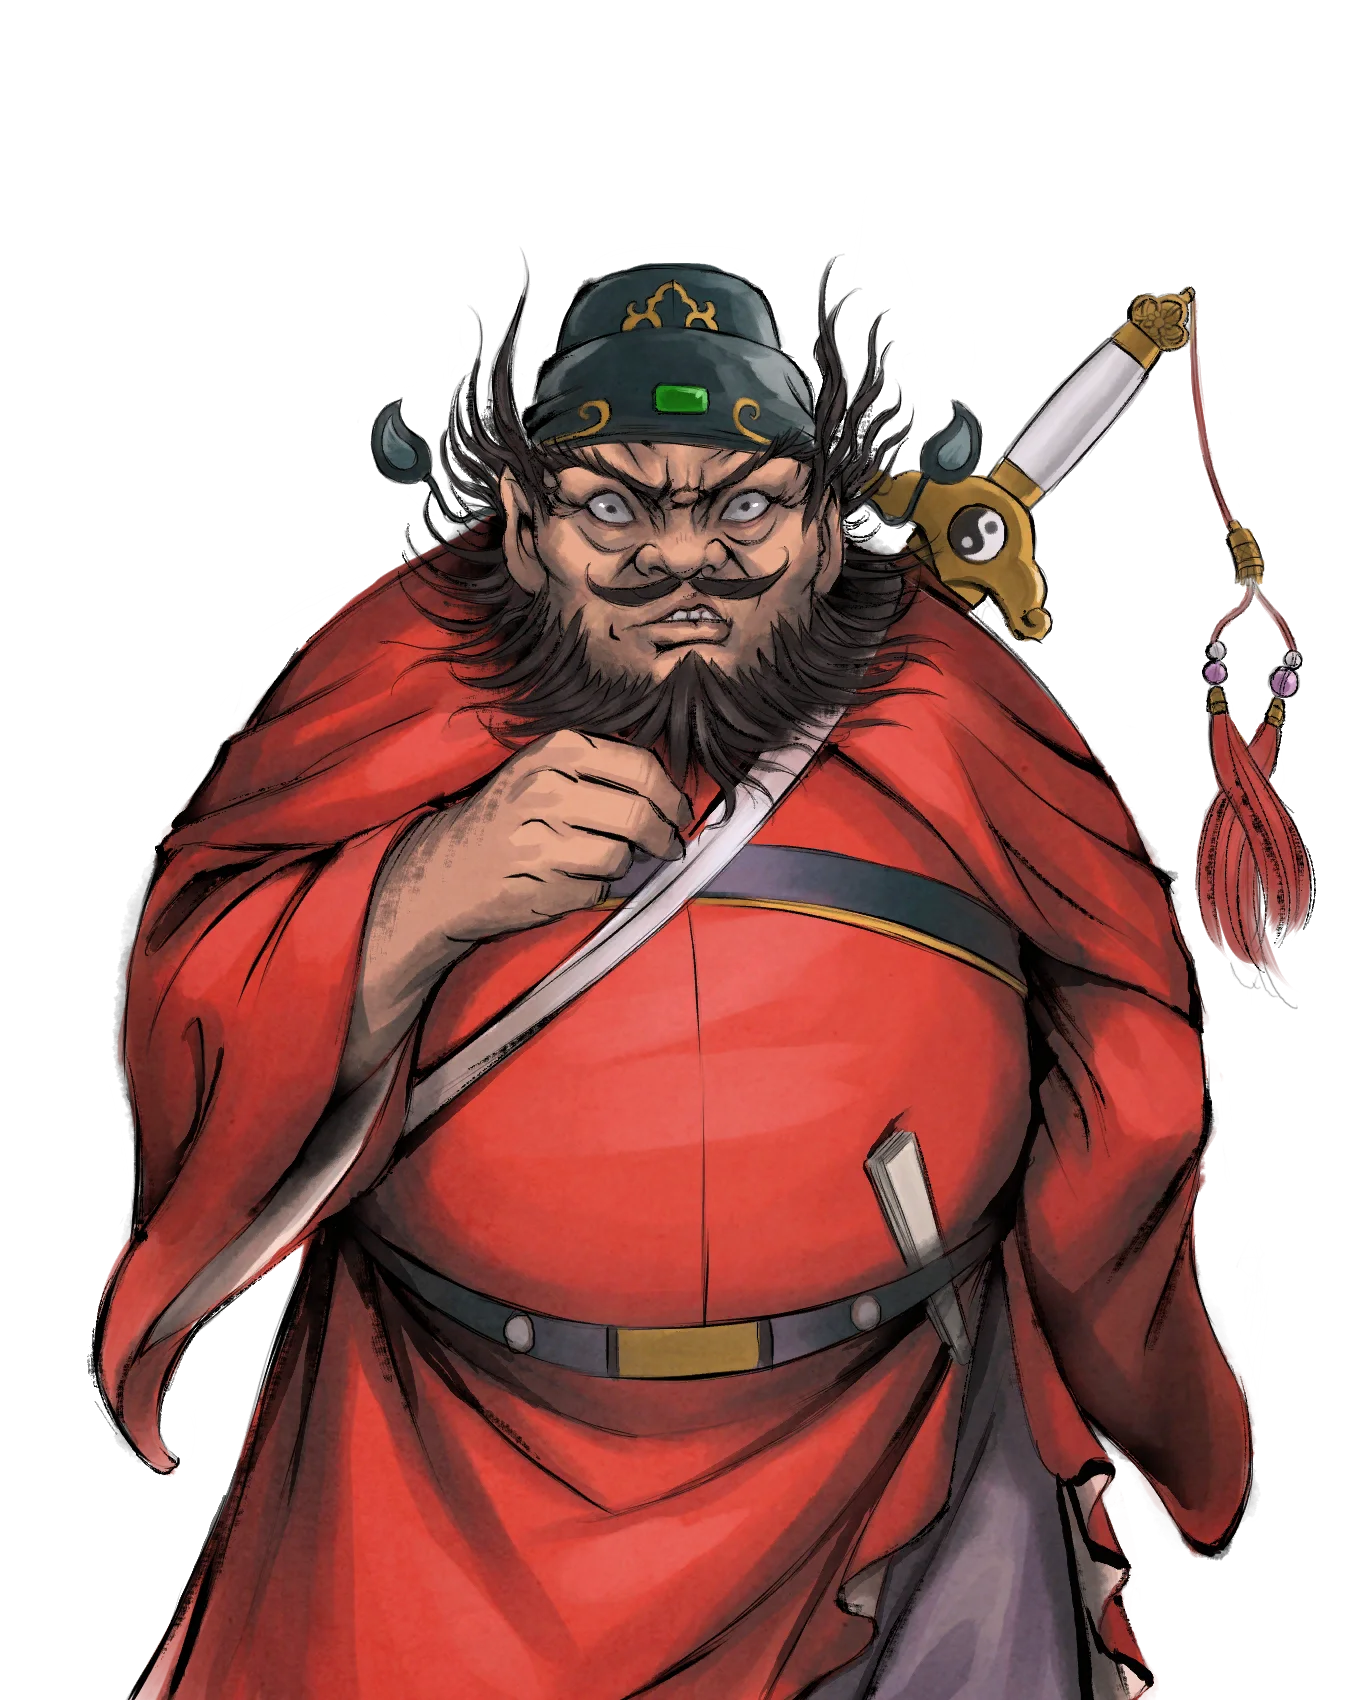
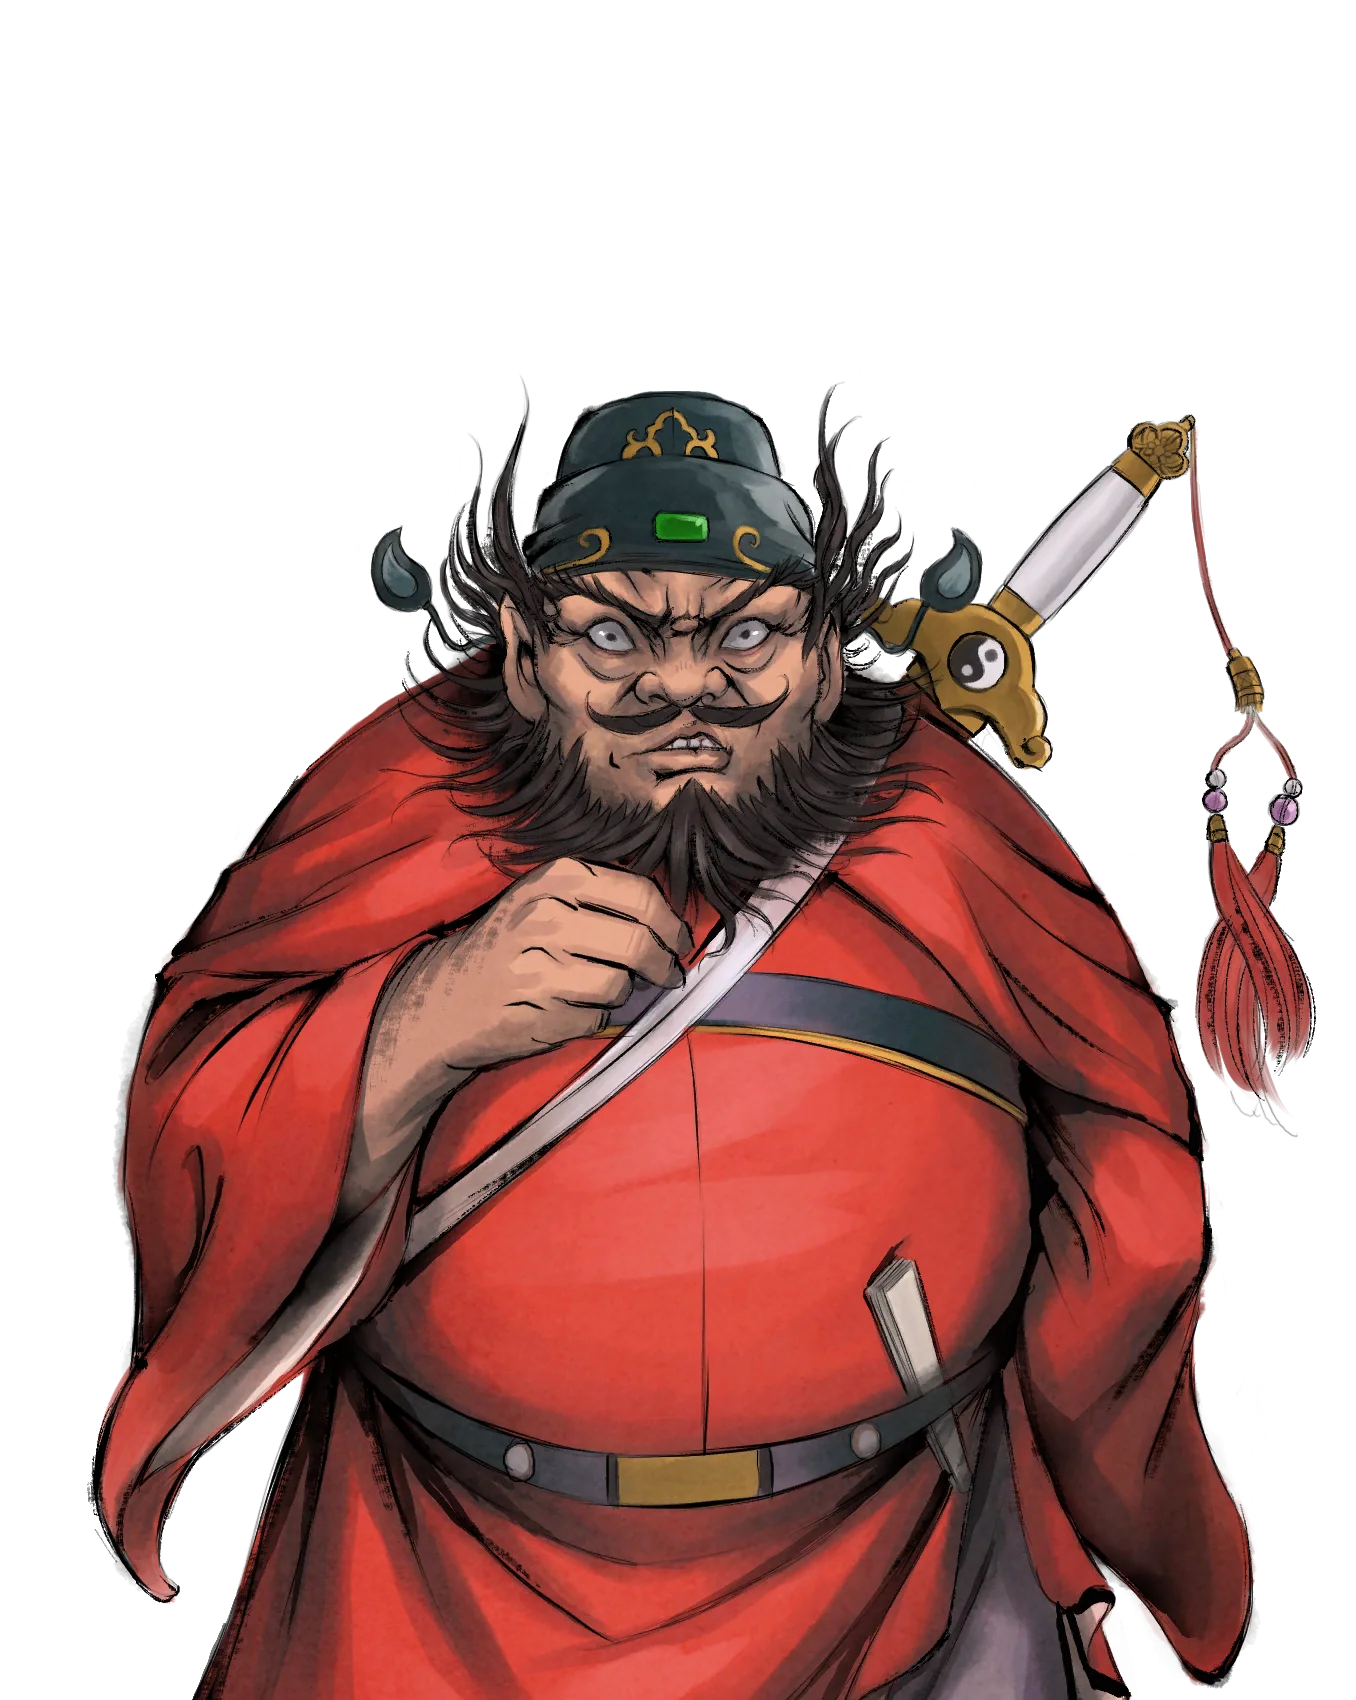
趙逵補上 5 個表情分頁並換新版立繪

diff --git a/docs/people/characters/special403.md b/docs/people/characters/special403.md
@@ -56,6 +56,26 @@ tags:
 			</ChTr>
 		</ChTable>
 	</ChTab>
+	<ChTab title="微笑">
+		<Ch src='/images/characters/special403/laugh1.webp' position='center'/>
+		<ChName nameZh='微笑' nameEn='Smile' position='right' />
+	</ChTab>
+	<ChTab title="大笑">
+		<Ch src='/images/characters/special403/laugh2.webp' position='center'/>
+		<ChName nameZh='大笑' nameEn='Laugh' position='right' />
+	</ChTab>
+	<ChTab title="汗顏">
+		<Ch src='/images/characters/special403/nervous1.webp' position='center'/>
+		<ChName nameZh='汗顏' nameEn='Sweating' position='right' />
+	</ChTab>
+	<ChTab title="生氣">
+		<Ch src='/images/characters/special403/angry2.webp' position='center'/>
+		<ChName nameZh='生氣' nameEn='Angry' position='right' />
+	</ChTab>
+	<ChTab title="重傷">
+		<Ch src='/images/characters/special403/hurt.webp' position='center'/>
+		<ChName nameZh='重傷' nameEn='Severely Injured' position='right' />
+	</ChTab>
 </ChTabs>
 
 > 「爾等枉稱俠士，一口一個正邪，殊不知自己惡貫滿盈！地獄道判官趙逵在此！妖魔鬼怪，還敢造～次！」
